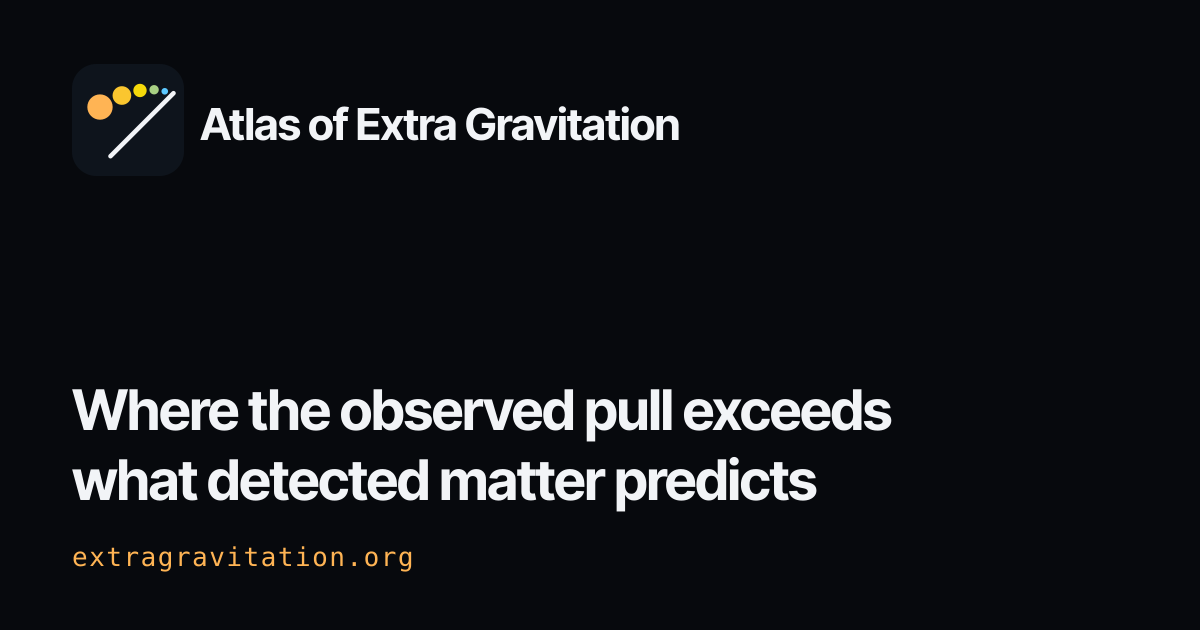
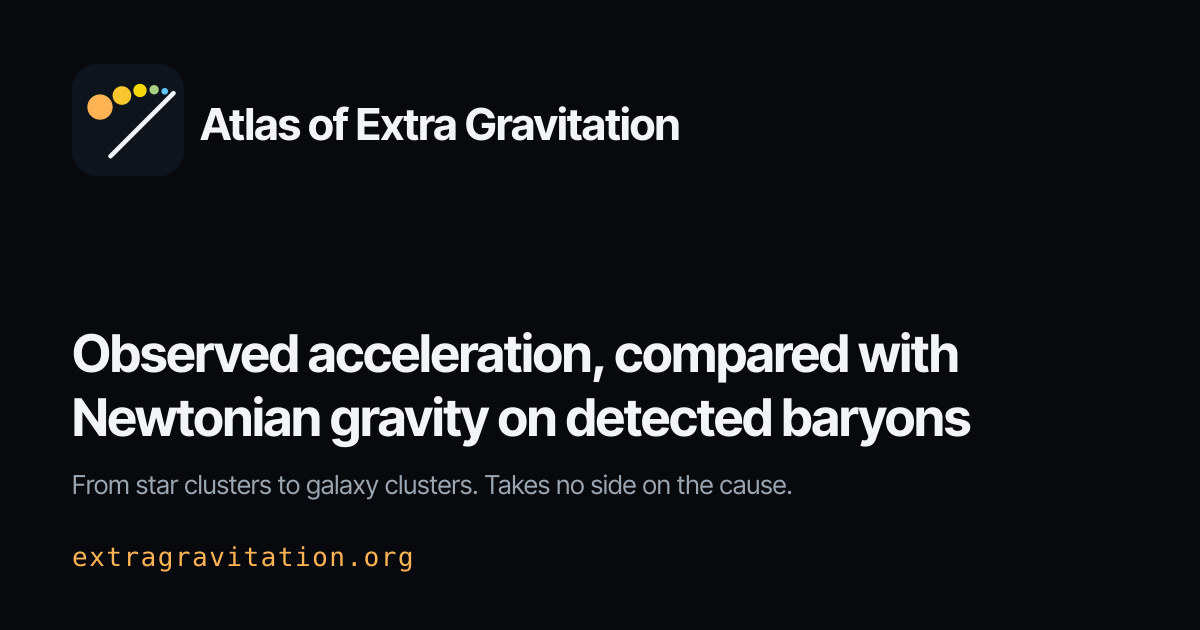
Share card: describe the comparison, not a result
The old line ('Where the observed pull exceeds what detected matter predicts')
read as an excess at every scale, which is not what star clusters show. New
text: 'Observed acceleration, compared with Newtonian gravity on detected
baryons. From star clusters to galaxy clusters. Takes no side on the cause.'
Image alt text updated to match.

Changed region(s): [[0.0617, 0.5127, 0.8325, 0.8143]]

diff --git a/brand/make_brand.py b/brand/make_brand.py
@@ -119,8 +119,9 @@ def og_svg():
             f'<rect width="1200" height="630" fill="{t["bg"]}"/>'
             f'<g transform="translate(72 64) scale(1.75)"><rect width="64" height="64" rx="14" fill="#0E141C"/>{mark_body(t)}</g>'
             f'<text x="200" y="140" font-family="Inter Tight, sans-serif" font-weight="700" font-size="44" letter-spacing="-0.8" fill="{t["ink"]}">Atlas of Extra Gravitation</text>'
-            f'<text x="72" y="430" font-family="Inter Tight, sans-serif" font-weight="700" font-size="56" letter-spacing="-1.2" fill="{t["ink"]}">Where the observed pull exceeds</text>'
-            f'<text x="72" y="500" font-family="Inter Tight, sans-serif" font-weight="700" font-size="56" letter-spacing="-1.2" fill="{t["ink"]}">what detected matter predicts</text>'
+            f'<text x="72" y="372" font-family="Inter Tight, sans-serif" font-weight="700" font-size="52" letter-spacing="-1.1" fill="{t["ink"]}">Observed acceleration, compared with</text>'
+            f'<text x="72" y="436" font-family="Inter Tight, sans-serif" font-weight="700" font-size="52" letter-spacing="-1.1" fill="{t["ink"]}">Newtonian gravity on detected baryons</text>'
+            f'<text x="72" y="494" font-family="Inter Tight, sans-serif" font-size="26" fill="{t["sub"]}">From star clusters to galaxy clusters. Takes no side on the cause.</text>'
             f'<text x="72" y="566" font-family="Source Code Pro, monospace" font-size="26" letter-spacing="1.5" fill="{t["accent"]}">extragravitation.org</text>'
             '</svg>\n')
 
